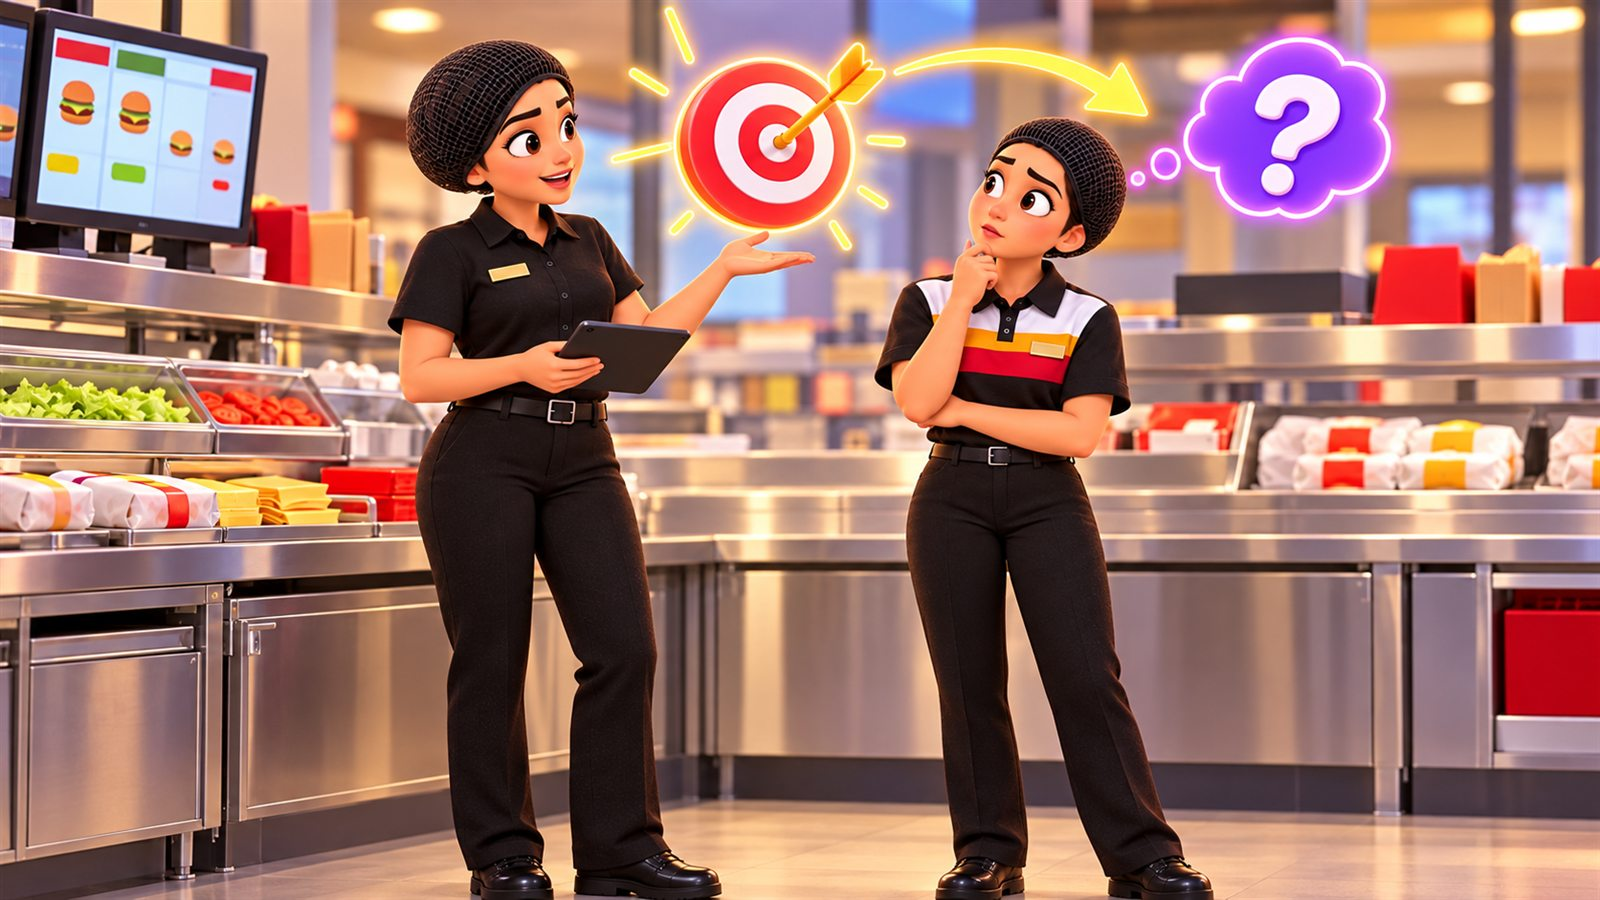
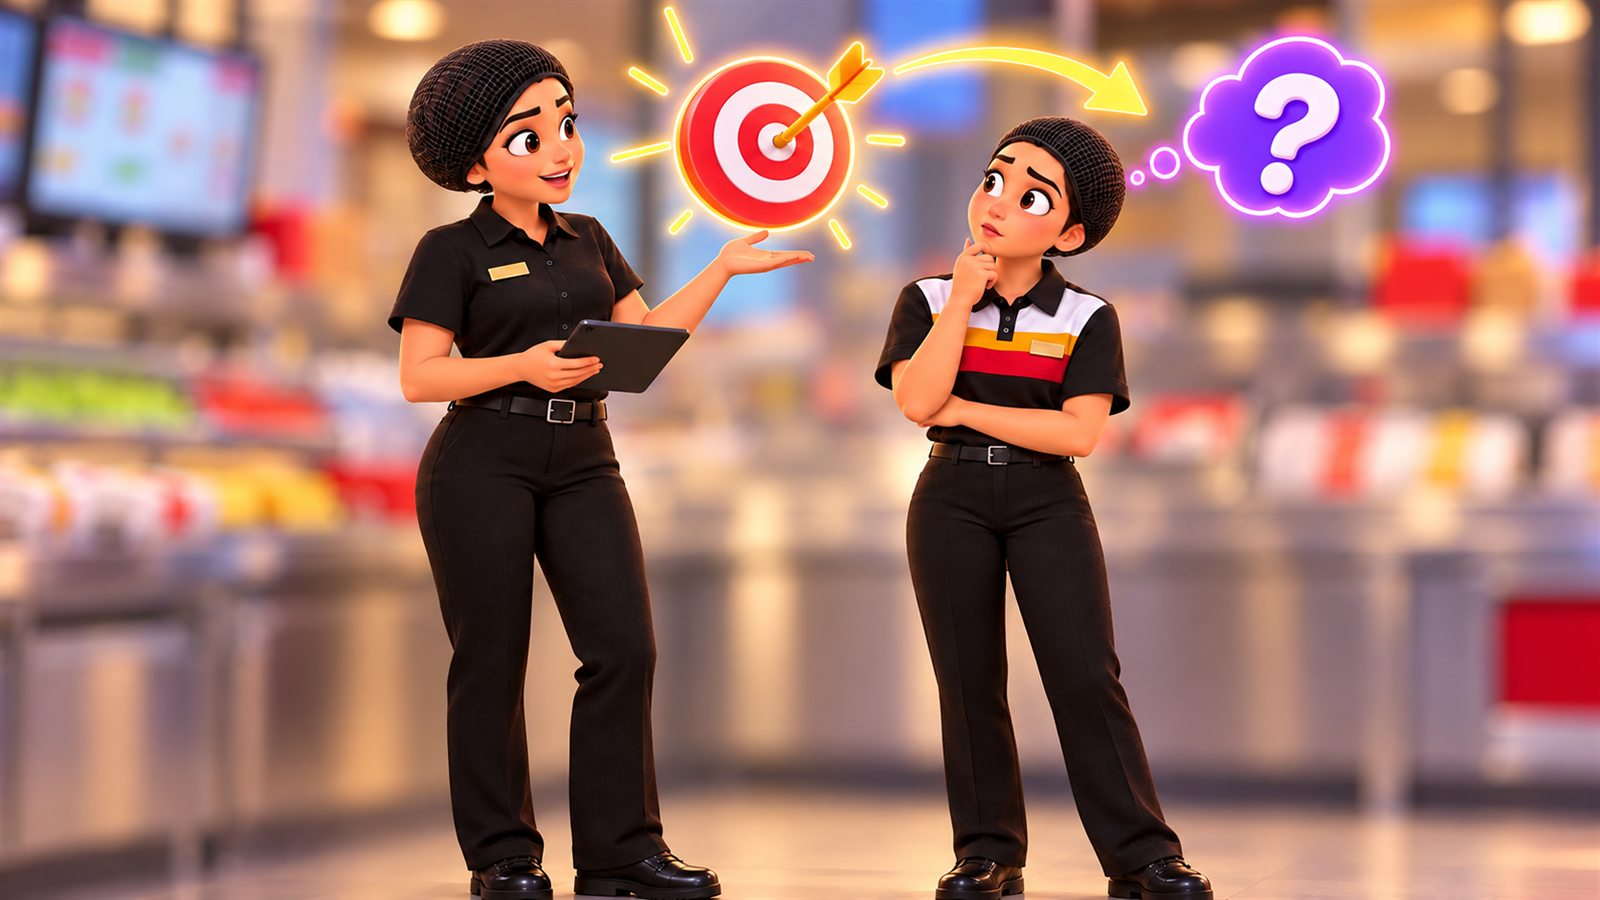
Polish cover funnel and reason artwork

diff --git a/style.css b/style.css
@@ -803,24 +803,26 @@ button:focus-visible, input:focus-visible, textarea:focus-visible { outline-colo
 .brave-report figcaption { padding: 1rem 1.25rem; color: var(--ku-text-soft); line-height: 1.55; }
 .brave-report figcaption strong { color: var(--ku-text); }
 
-.goal-funnel { margin: 2.5rem 0; padding: clamp(1.25rem, 3vw, 2.5rem); border: 1px solid var(--ku-border); border-radius: var(--ku-radius-xl); background: linear-gradient(180deg, var(--ku-bg), var(--ku-brand-soft)); overflow: hidden; }
+.goal-funnel { margin: 2.5rem 0; padding: clamp(1.5rem, 4vw, 3rem); border: 1px solid color-mix(in srgb, var(--ku-brand) 20%, var(--ku-border)); border-radius: var(--ku-radius-xl); background: radial-gradient(circle at 15% 8%, rgba(255,255,255,.95), transparent 24%), linear-gradient(145deg, #f2efff 0%, #fff7ed 48%, #effcf8 100%); overflow: hidden; perspective: 900px; }
 .goal-funnel > h2 { margin: 0 0 1.5rem; text-align: center; font-size: clamp(1.7rem, 3vw, 2.5rem); }
-.funnel-stage { position: relative; display: flex; gap: 1rem; margin: 0 auto; padding: 1.15rem clamp(1.5rem, 4vw, 3rem); border: 0; background: var(--ku-card); box-shadow: var(--ku-shadow-xs); clip-path: polygon(5% 0, 95% 0, 100% 100%, 0 100%); }
-.funnel-goal { width: 46%; justify-content: center; background: var(--ku-brand); color: var(--ku-brand-on); }
-.funnel-metrics { width: 62%; background: color-mix(in srgb, var(--ku-brand) 16%, var(--ku-card)); }
-.funnel-zones { width: 80%; background: color-mix(in srgb, var(--ku-brand) 9%, var(--ku-card)); }
-.funnel-tasks { width: 100%; background: var(--ku-card); }
-.funnel-number { display: grid; place-items: center; flex: 0 0 2.25rem; width: 2.25rem; height: 2.25rem; border-radius: 50%; background: var(--ku-contrast); color: var(--ku-contrast-on); font-weight: 800; }
+.funnel-stage { position: relative; display: flex; gap: 1rem; margin: 0 auto; padding: 1.2rem clamp(1.5rem, 4vw, 3rem) 1.45rem; border: 1px solid rgba(255,255,255,.65); color: #231942; box-shadow: 0 .75rem 0 rgba(49,35,112,.14), 0 1.2rem 2rem rgba(49,35,112,.16), inset 0 1px 0 rgba(255,255,255,.8); clip-path: polygon(6% 0, 94% 0, 100% 100%, 0 100%); transform: rotateX(1.5deg); transform-origin: center bottom; }
+.funnel-stage::after { content: ""; position: absolute; inset: auto 7% .35rem; height: .22rem; border-radius: 999px; background: rgba(255,255,255,.5); }
+.funnel-goal { width: 43%; justify-content: center; background: linear-gradient(135deg, #7b61ff, #d92d9b); color: #fff; }
+.funnel-metrics { width: 61%; background: linear-gradient(135deg, #76d8ff, #9ba8ff); }
+.funnel-zones { width: 80%; background: linear-gradient(135deg, #ffd36e, #ff9f68); }
+.funnel-tasks { width: 100%; background: linear-gradient(135deg, #9ce7ca, #79d8ad); }
+.funnel-number { display: grid; place-items: center; flex: 0 0 2.4rem; width: 2.4rem; height: 2.4rem; border: 2px solid rgba(255,255,255,.78); border-radius: 50%; background: rgba(255,255,255,.9); color: #5639bd; box-shadow: 0 .35rem .8rem rgba(49,35,112,.16); font-weight: 900; }
+.funnel-goal .funnel-number { background: #fff; color: #7b3fd1; }
 .funnel-stage h3 { margin: .25rem 0 .65rem; font-size: 1.15rem; }
 .funnel-stage p { margin: 0; line-height: 1.5; }
 .funnel-stage ul { display: flex; flex-wrap: wrap; gap: .45rem; margin: 0; padding: 0; list-style: none; line-height: 1.45; }
-.funnel-stage li { padding: .4rem .65rem; border-radius: var(--ku-radius-pill); background: color-mix(in srgb, var(--ku-surface) 82%, transparent); }
+.funnel-stage li { padding: .4rem .65rem; border: 1px solid rgba(255,255,255,.7); border-radius: var(--ku-radius-pill); background: rgba(255,255,255,.68); box-shadow: inset 0 1px 0 #fff; }
 .funnel-stage-content { min-width: 0; width: 100%; }
 .funnel-grid { display: grid; grid-template-columns: repeat(3, minmax(0, 1fr)); gap: .75rem; }
-.funnel-grid article { padding: .9rem; border-radius: var(--ku-radius-m); background: var(--ku-bg); }
+.funnel-grid article { padding: .9rem; border: 1px solid rgba(255,255,255,.75); border-radius: var(--ku-radius-m); background: rgba(255,255,255,.78); box-shadow: 0 .35rem .9rem rgba(49,35,112,.1); }
 .funnel-grid b { display: block; margin-bottom: .4rem; color: var(--ku-brand-strong); }
 .funnel-grid p { color: var(--ku-text-soft); font-size: .9rem; }
-.funnel-arrow { display: grid; place-items: center; width: 2rem; height: 2rem; margin: .2rem auto; border-radius: 50%; background: var(--ku-surface); color: var(--ku-brand); text-align: center; font-size: 1.3rem; font-weight: 800; line-height: 1; box-shadow: var(--ku-shadow-xs); }
+.funnel-arrow { position: relative; z-index: 2; display: grid; place-items: center; width: 2.2rem; height: 2.2rem; margin: .1rem auto -.15rem; border: 2px solid #fff; border-radius: 50%; background: linear-gradient(135deg, #ff4c92, #7b61ff); color: #fff; text-align: center; font-size: 1.3rem; font-weight: 900; line-height: 1; box-shadow: 0 .35rem .8rem rgba(76,49,164,.25); }
 .goal-funnel blockquote { margin: 1.25rem auto 0; padding: 1rem 1.25rem; border-left: .25rem solid var(--ku-brand); background: var(--ku-surface); font-weight: 700; line-height: 1.55; }
 .shift-path-title { margin: 3.5rem 0 1.5rem; text-align: center; }
 .shift-path-title h2 { margin: 0; font-size: clamp(1.6rem, 3vw, 2.25rem); }
@@ -980,13 +982,15 @@ button:focus-visible, input:focus-visible, textarea:focus-visible { outline-colo
 
 /* Keep the cover copy inside the calm area of the artwork. */
 #page-home .hero-content {
-  inline-size: min(calc(100% - 5rem), 1280px);
+  inline-size: min(21rem, calc(100% - 3rem));
+  margin-inline: clamp(1.5rem, 4vw, 4.5rem) auto;
 }
 #page-home .hero-content > * {
-  max-inline-size: min(34vw, 28rem);
+  max-inline-size: 21rem;
 }
 #page-home .hero-content h1 {
-  font-size: clamp(2.55rem, 4.6vw, 4.5rem);
+  font-size: clamp(2.35rem, 3.6vw, 3.55rem);
+  line-height: .98;
 }
 
 /* Course contents: one calm, compact route */

diff --git a/index.html b/index.html
@@ -7,7 +7,7 @@
   <meta name="description" content="Интерактивный курс о постановке целей и управлении их достижением в течение дня.">
   <title>Как управлять достижением целей на день</title>
   <link rel="stylesheet" href="css/kuds.css?v=5">
-  <link rel="stylesheet" href="style.css?v=48">
+  <link rel="stylesheet" href="style.css?v=49">
 </head>
 <body>
   <nav id="top-nav" aria-label="Навигация по курсу">
